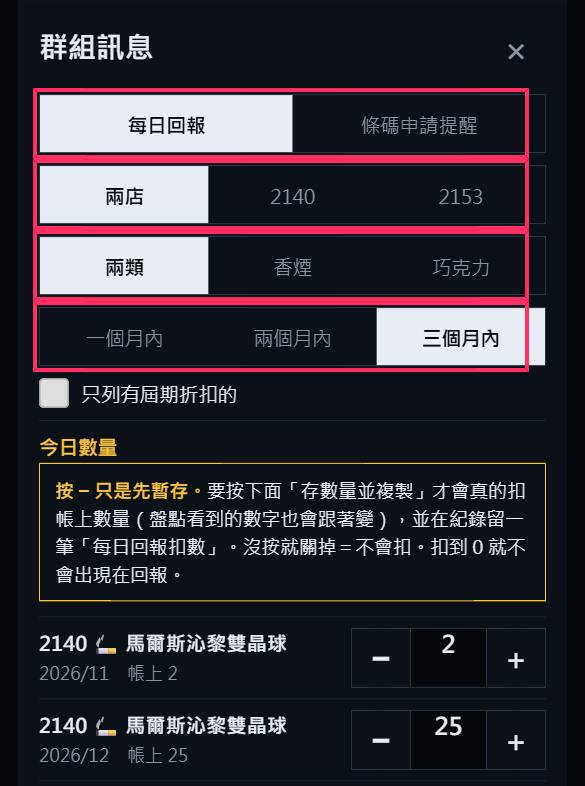
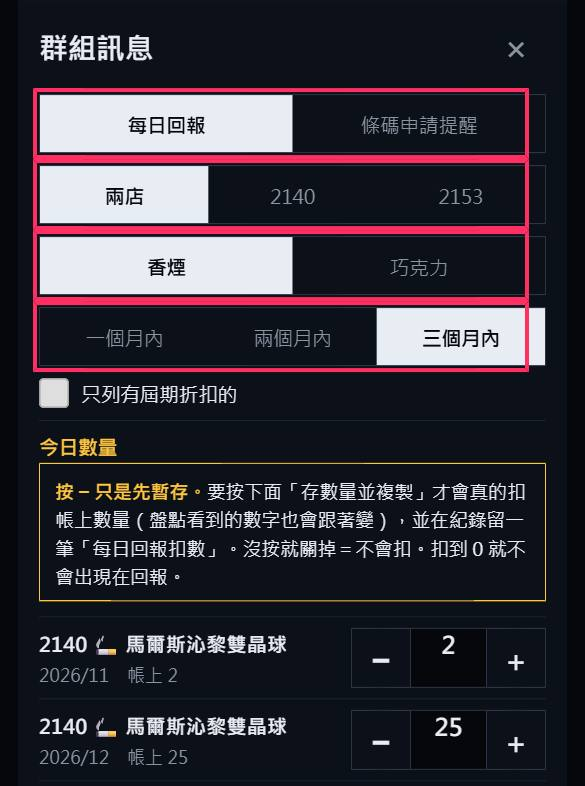
v11: 每日回報香煙/巧克力分兩則

diff --git a/index.html b/index.html
@@ -884,7 +884,7 @@ function msgSheet(force){
   const fill=()=>{const rep=msgType==="report";$("#mopt").style.display=rep?"":"none";$("#mimgh").style.display=rep?"":"none";$("#mbyf").style.display=rep?"":"none";$("#mt").value=rep?buildReport():buildApplyMsg();
     const n=rep?changed().length:0;$("#mchg").textContent=n?`已改 ${n} 批`:"";$("#mc").textContent=n?`存數量並複製（${n} 批）`:"複製訊息";
     $("#mhint").textContent=rep?`以 ${mdS(sel)} 起算，不含已過期。內容可以先改再複製。`:"列出本週要申請與已逾期未申請的批次。"};
-  const full=()=>{list();fill()};full();
+  const full=()=>{const rep=msgType==="report",cb=document.querySelector('#mca [data-m=""]');if(cb)cb.style.display=rep?"none":"";if(rep&&!msgCat){msgCat="08";document.querySelectorAll("#mca button").forEach(x=>x.setAttribute("aria-pressed",x.dataset.m==="08"))}list();fill()};full();
   const bind=(id,set)=>{$("#"+id).onclick=e=>{const b=e.target.closest("[data-m]");if(!b)return;set(b.dataset.m);document.querySelectorAll(`#${id} button`).forEach(x=>x.setAttribute("aria-pressed",x===b));full()}};
   bind("mty",v=>msgType=v);bind("mst",v=>msgStore=v);bind("mca",v=>msgCat=v);bind("mr",v=>msgRange=+v);
   $("#mdo").onchange=e=>{msgDiscOnly=e.target.checked;full()};
@@ -900,7 +900,7 @@ function msgSheet(force){
       msgDraft={};}
     const ok=await copy(txt);
     if(ch.length)msgSheet(true);
-    toast(ok?(ch.length?`已存 ${ch.length} 批數量，訊息已複製`:"已複製，貼到群組即可"):"已全選，請長按選「複製」");
+    toast(ok?(ch.length?`已存 ${ch.length} 批數量，訊息已複製`:"已複製，貼到群組即可")+(msgType==="report"?`；接著切到「${msgCat==="08"?"巧克力":"香煙"}」複製第二則`:""):"已全選，請長按選「複製」");
     if(!ok){const t=$("#mt");if(t){t.value=txt;t.focus();t.select()}}
   };
 }
@@ -978,7 +978,7 @@ const GUIDE=[
   ["每列按「下架」，或勾選後按「確認下架」","每列的「下架」要按兩次才會下架。下架錯了在下方「最近下架」按兩次復原。",1,"g13"],
   ["（更快）清單上紅色「下架」",`按一下變「確認下架」，再按一次才會下架，防止誤按。`,0,"g14"]]},
  {t:"每日回報（群組訊息）",s:"每天貼到群組的屆期回報",f:[
-  ["按「訊息」，選每日回報和範圍","上到下：每日回報／條碼申請提醒、店別、香煙或巧克力、一～三個月內。",0,"g15"],
+  ["按「訊息」，選每日回報和範圍",`上到下：每日回報／條碼申請提醒、店別、香煙或巧克力、一～三個月內。每日回報 ${K("香煙")}、${K("巧克力")} 分兩則：先選香煙複製貼上，再切巧克力複製貼上。`,0,"g15"],
   ["今天賣掉幾個就按 −",`按 − 只是暫存，訊息先跟著改；要按 ${K("存數量並複製")} 才會真的扣帳上數量（盤點看到的也會變）。沒按就關掉＝不會扣。`,0,"g16"],
   ["按「存數量並複製」，或做成縮圖圖片",`數量寫回系統、訊息已複製，直接貼到群組。按 ${K("🖼 產生含縮圖的圖片")} 會做成有商品照片的長圖，手機可以直接分享到 LINE。做圖不會存數量，有按 − 要先按「存數量並複製」。`,1,"g17"]]},
  {t:"賣出、修改、刪除",s:"平常維護效期資料",f:[
